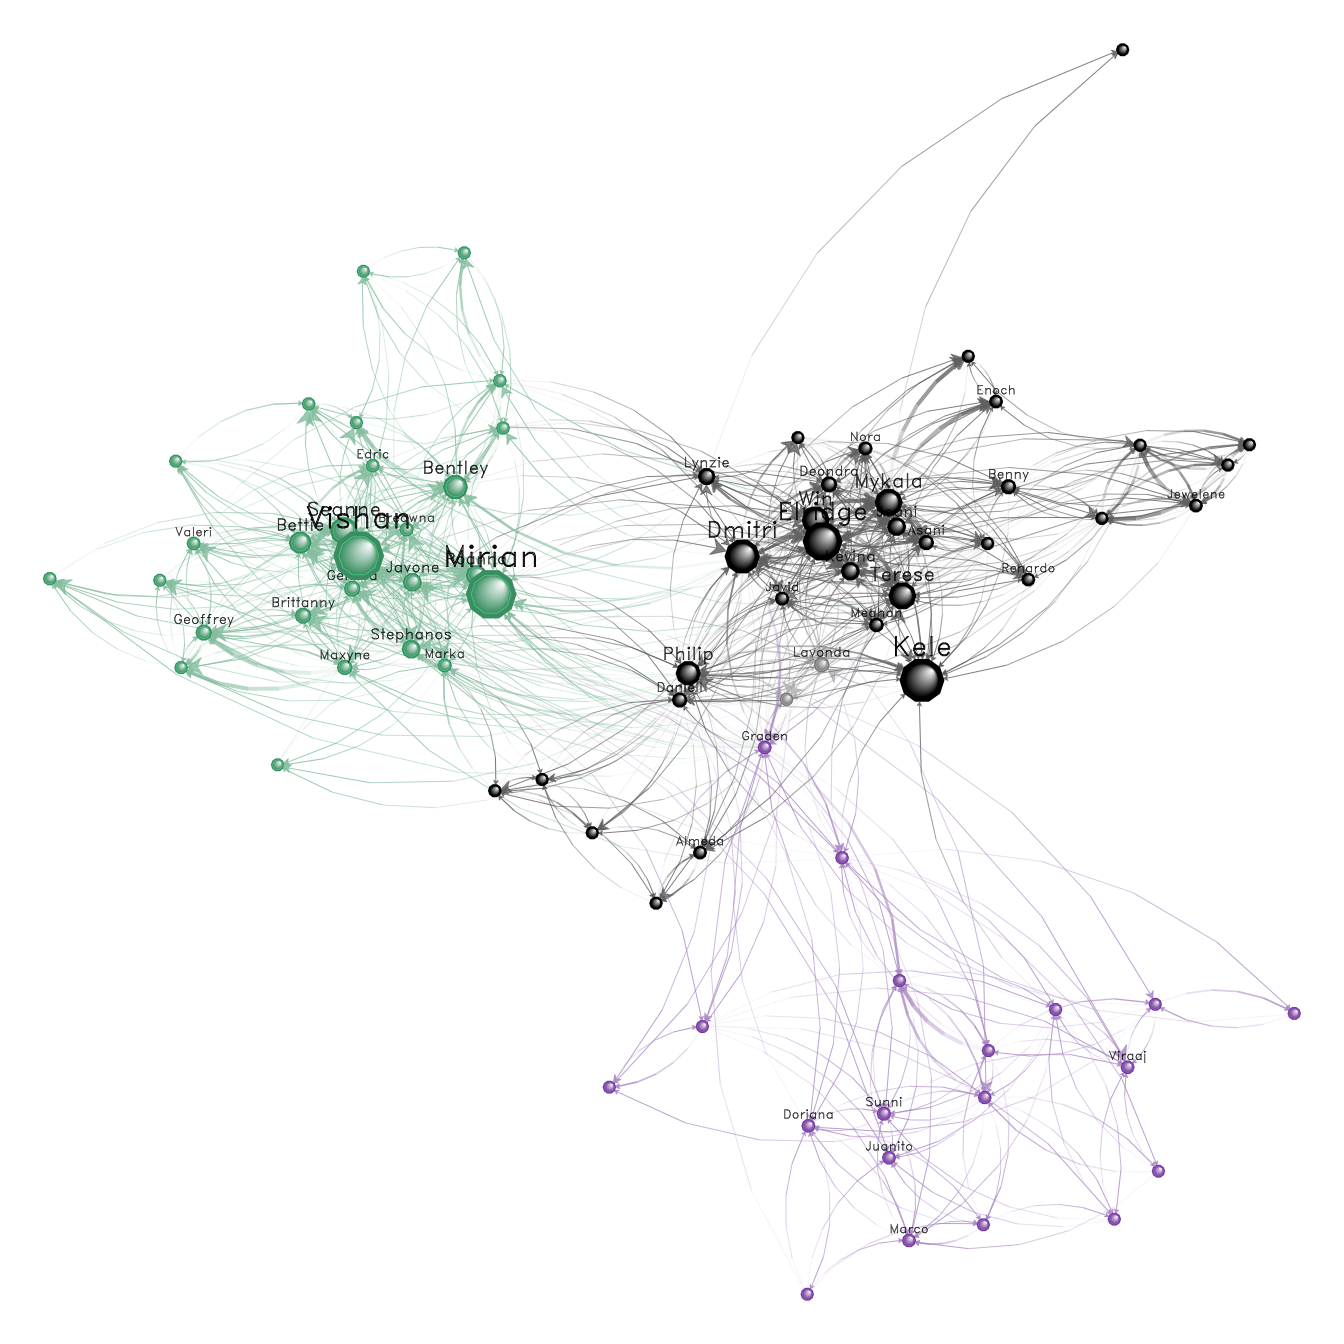
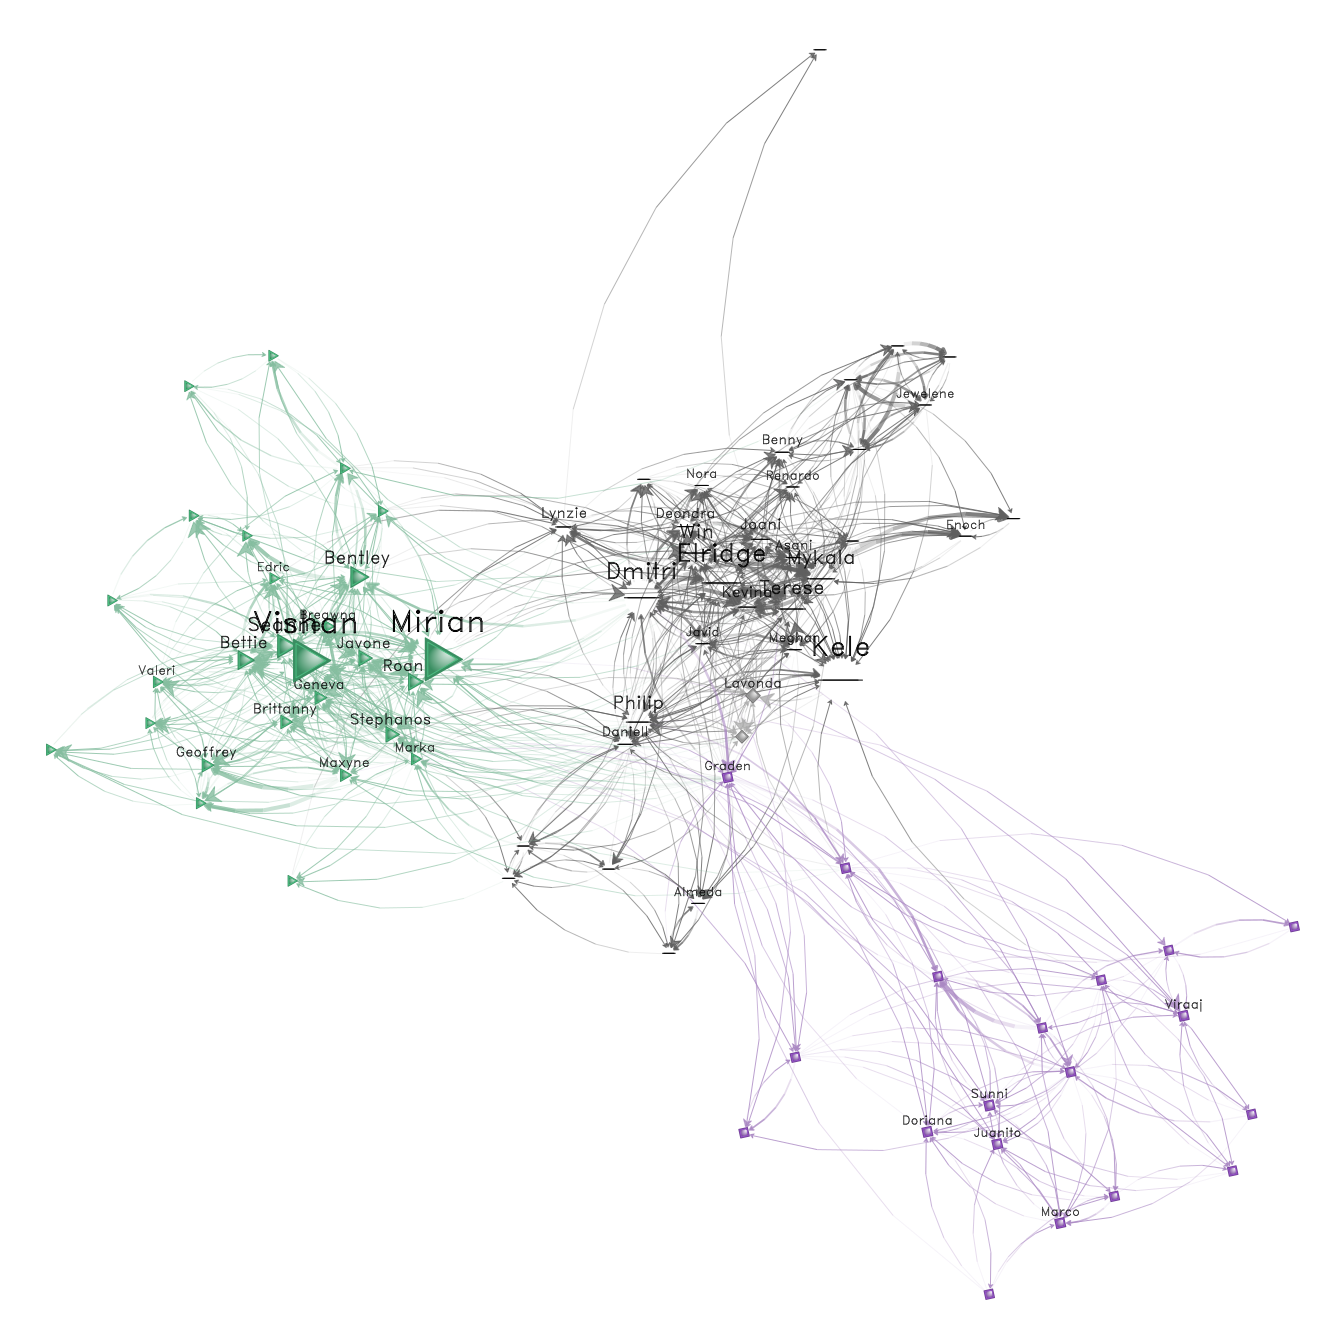
Graph only plots when printing (not during construction)

diff --git a/README.md b/README.md
@@ -102,6 +102,7 @@ ans <- nplot(
   UKfaculty,
   layout                = l,
   vertex.color          = ~ Group,
+  vertex.nsides         = ~ Group,
   vertex.label          = nam,
   vertex.size.range     = c(.01, .04, 4),
   vertex.label.col      =  "black",

diff --git a/NEWS.md b/NEWS.md
@@ -1,3 +1,8 @@
+# netplot 0.2-9999
+
+*  Unvalid arguments passed to `nplot()` now raise an error.
+
+
 # netplot 0.2-0
 
 *  The arguments `skip.vertex`, `skip.edges`, and `skip.arrows` now work as
